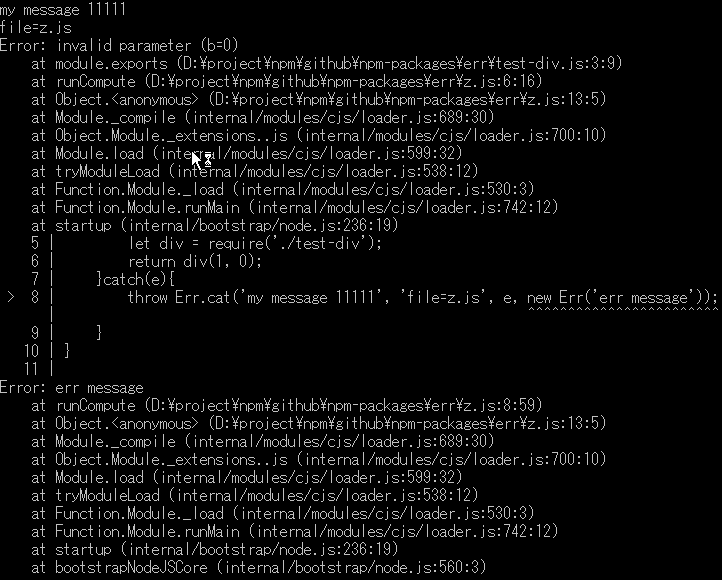
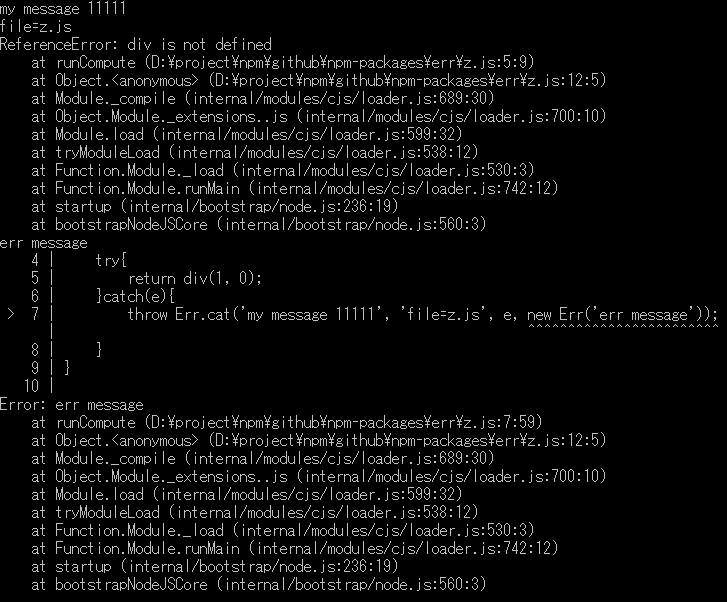
1

Changed region(s): [[0.0, 0.0, 0.8532, 0.5586], [0.0, 0.5586, 0.8532, 0.9931], [0.5485, 0.4966, 1.0, 0.5586]]

diff --git a/err/index.js b/err/index.js
@@ -33,12 +33,12 @@ class Err extends Error{
 		if ( opts.text || opts.file ) {
 			// 按指定行列或位置设定codeframe
 			this.codeframe = opts.line ? codeframe({file: opts.file, text: opts.text, line: opts.line, column: opts.column}) : codeframe({file: opts.file, text: opts.text, start: opts.start, end: opts.end});
+			this.codeframe && msgs.push(this.codeframe);
 		}else{
 			// 按自身异常抛出位置设定codeframe
 			setCodeframe(this);
 		}
 
-		this.codeframe && msgs.push(this.codeframe);
 		msgs.push(this.stack);
 		ex && msgs.push(ex.stack);
 		this.stack = msgs.join('\n');

diff --git a/err/README.md b/err/README.md
@@ -75,7 +75,6 @@ const codeframe = require('@gotoeasy/err');
 
 function runCompute(){
     try{
-        let div = require('./test-div');
         return div(1, 0);
     }catch(e){
         throw new Err('my error message', e);
@@ -98,7 +97,6 @@ const codeframe = require('@gotoeasy/err');
 
 function runCompute(){
     try{
-        let div = require('./test-div');
         return div(1, 0);
     }catch(e){
         throw Err.cat('my message 11111', 'file=z.js', e, new Err('err message'));
@@ -121,7 +119,6 @@ const codeframe = require('@gotoeasy/err');
 
 function runCompute(){
     try{
-        let div = require('./test-div');
         return div.exec(1, 0);
     }catch(e){
         throw Err.cat('my error message', e);
